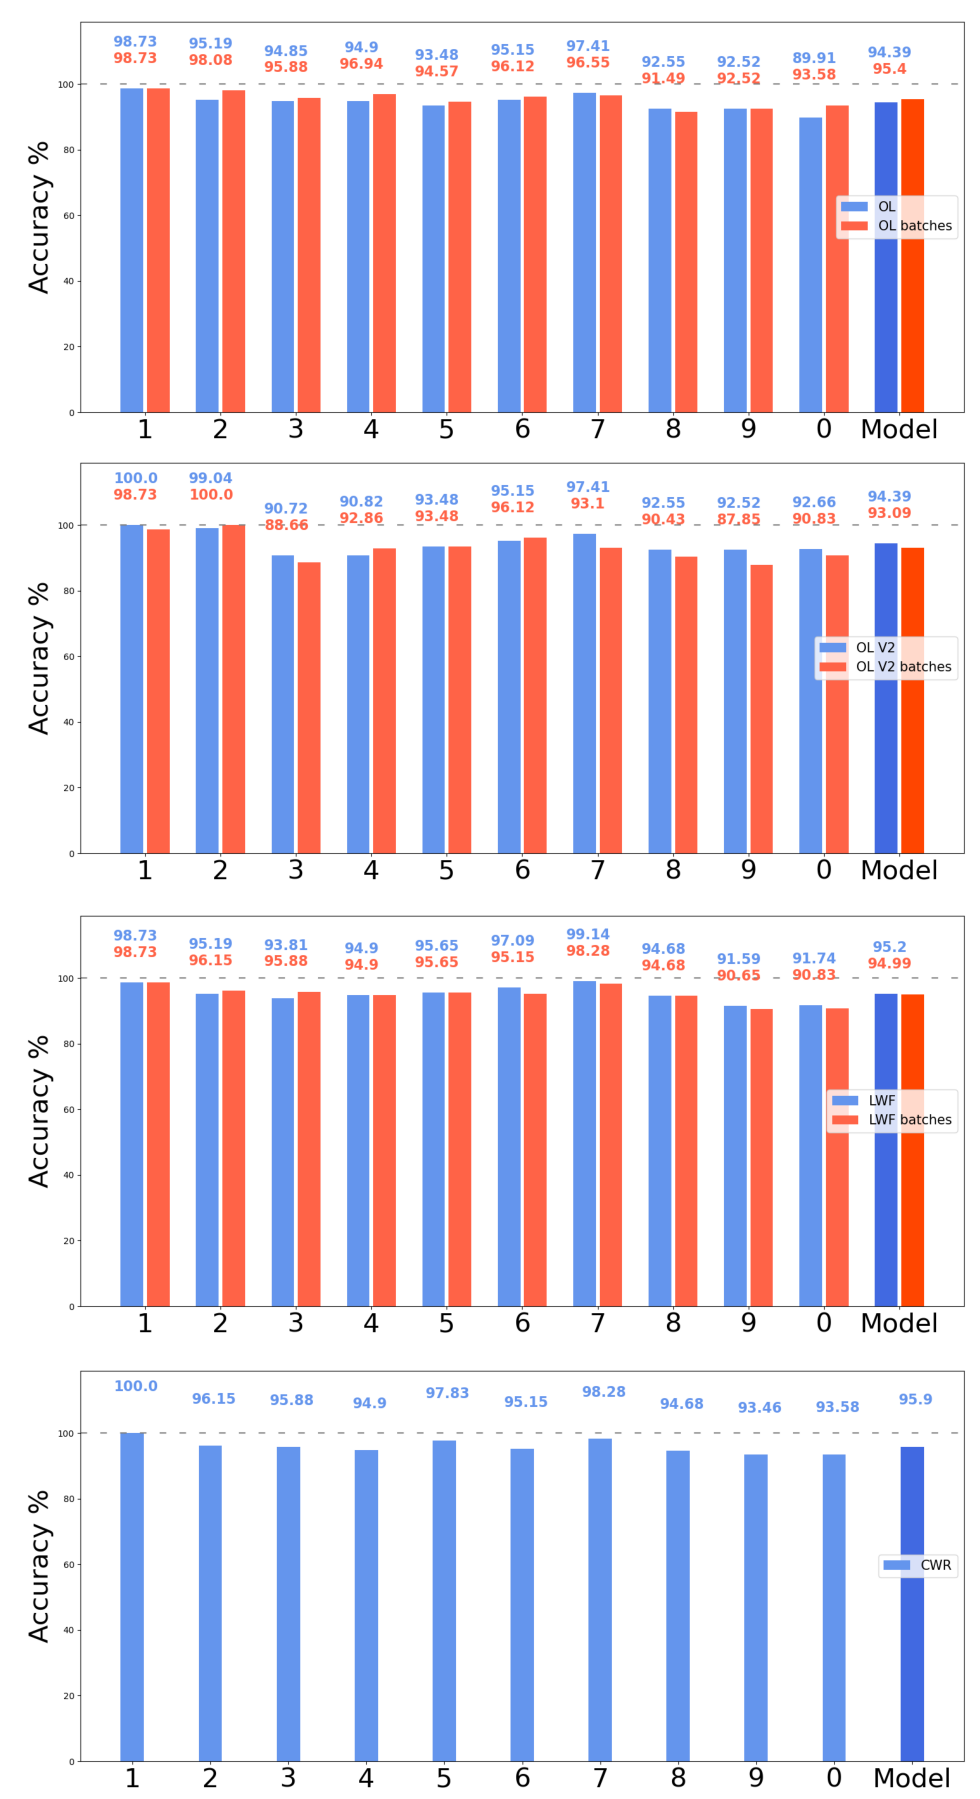
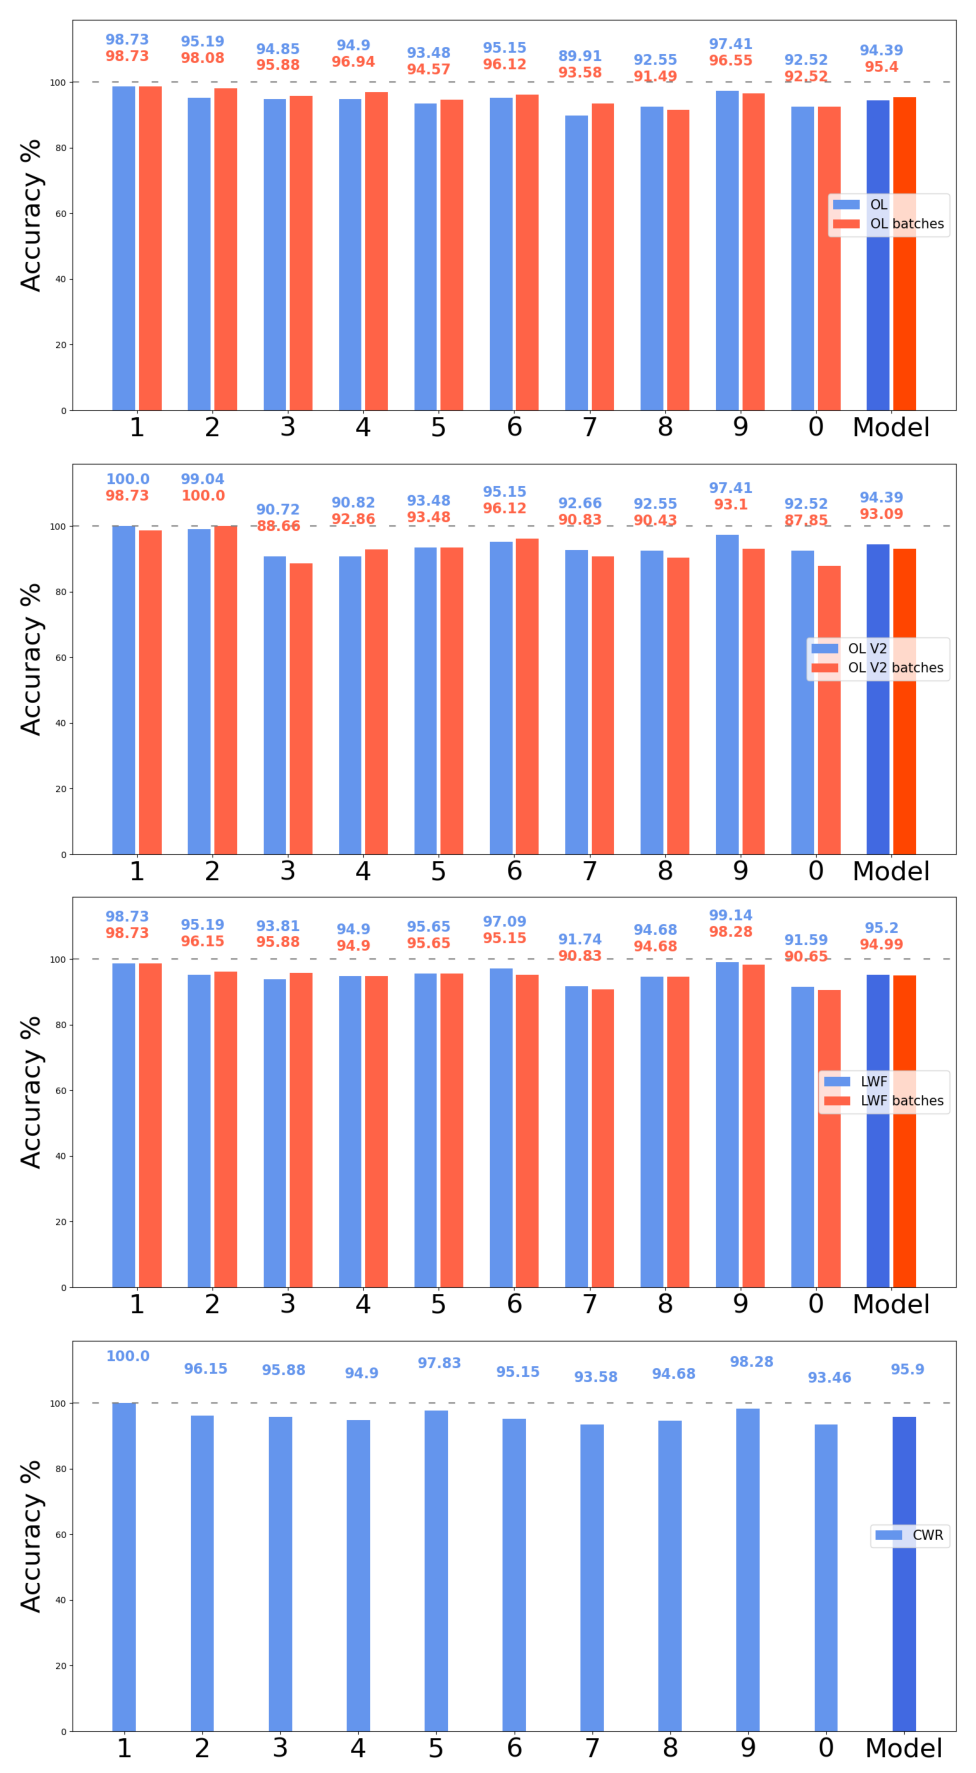
Fixed unordered labels in plots for  openmv

Changed region(s): [[0.0307, 0.0, 0.9836, 0.9927]]

diff --git a/OpenMV_application/Scripts/Trainings/run_create_barPlots_Latex.py b/OpenMV_application/Scripts/Trainings/run_create_barPlots_Latex.py
@@ -21,26 +21,29 @@ save_name = ['1_OL', '5_OL batch', '2_OL V2', '6_OLV2_batch', '3_LWF', '7_LWF_ba
 
 
 
-
 # Create class for containing the data from the txt file
 class MethodInfo(object):
     def __init__(self, name):
 
         # Related to the layer
         
-        self.label     = ['1', '2', '3', '4', '5', '6', '7', '8', '9', '0', 'Model']             # the original model knows only the vowels
+        self.label     = ['1', '2', '3', '4', '5', '6', '7', '8', '9', '0', 'Model'] 
         self.conf_matr = np.zeros((10,10))
+
+        self.openmv_label = []
+
+
 
 
 
 # Create a class for each method
-OL_data = MethodInfo('')
-OLb_data = MethodInfo('')
-OLV2_data = MethodInfo('')
+OL_data    = MethodInfo('')
+OLb_data   = MethodInfo('')
+OLV2_data  = MethodInfo('')
 OLV2b_data = MethodInfo('')
-LWF_data = MethodInfo('')
-LWFb_data = MethodInfo('')
-CWR_data = MethodInfo('')
+LWF_data   = MethodInfo('')
+LWFb_data  = MethodInfo('')
+CWR_data   = MethodInfo('')
 
 
 
@@ -67,32 +70,42 @@ for k in range(0,7):
 
 
     with open(TXT_PATH + save_name[k] + '.txt') as f:
+        temp_matr = np.zeros((10,10))
         i=0
         j=0
         tmp=0
         for line in f:  # cycle over lines 
 
             # skip forst 3 lines
-            if(tmp<3):
+            if(tmp==0 or tmp== 2):
                 tmp+=1
                 continue
 
+            if(tmp == 1):
+                data = line.split(',') 
+                for number in data:
+                    strategy.openmv_label.append(int(number)) 
+                tmp+=1
+                continue
+
+
             data = line.split(',')  # split one line in each single number
             for number in data:
-                strategy.conf_matr[j,i] = float(number)   # save the number
+                temp_matr[j,i] = float(number)   # save the number
                 i+=1
 
             j+=1
             i=0
+
+    # reorganize correctly the confusion marix
+    for i in range(0, 10):
+        n = strategy.openmv_label[i]
+        for j in range(0,10):
+            m = strategy.openmv_label[j]
+            strategy.conf_matr[n,m] = temp_matr[i,j]
 # --------
 
 
-# AGGIUNGERE FUNZIONE CHE RIORDINA I LABEL E LA CONF MATRIX
-
-
-
-
-# --- CREATE BAR PLOT
 
 
 def create_plot(method1, method2, group):
@@ -119,7 +132,7 @@ def create_plot(method1, method2, group):
     colors_2 = [orange1, orange1, orange1, orange1, orange1, orange1, orange1, orange1, orange1, orange1, 'orangered']  # different color for the 'Model' bar
 
 
-    # Compute accuracy for each class - method 1
+    # Compute accuracy for each class - METHOD 1
     bar_values_1 = np.zeros(method1.conf_matr.shape[0]+1)
     tot_pred     = 0
     correct_pred = 0
@@ -130,7 +143,7 @@ def create_plot(method1, method2, group):
     bar_values_1[-1] = round(round(correct_pred/tot_pred, 4)*100,2)   # Overall accuracy of the model
 
 
-    # Compute accuracy for each class - method 2
+    # Compute accuracy for each class - METHOD 2
     bar_values_2 = np.zeros(method2.conf_matr.shape[0]+1)
     tot_pred     = 0
     correct_pred = 0
@@ -142,7 +155,7 @@ def create_plot(method1, method2, group):
 
 
 
-    # Create bar plot
+    # Create bar plot -----
     fig = plt.subplots(figsize =(18, 8))
 
     bar_width  = 0.35
@@ -152,13 +165,10 @@ def create_plot(method1, method2, group):
 
     X_axis = np.arange(len(method1.label))
 
-
-
     bar_plot_1 = plt.bar(X_axis - bar_width/2, bar_values_1, 0.3, label = label_1, color=colors_1)
     bar_plot_2 = plt.bar(X_axis + bar_width/2, bar_values_2, 0.3, label = label_2, color=colors_2)
 
     plt.axhline(y = 100, color = 'gray', linestyle = (0, (5, 10)) )
-
 
 
     # Define the height at which to display the bar height
